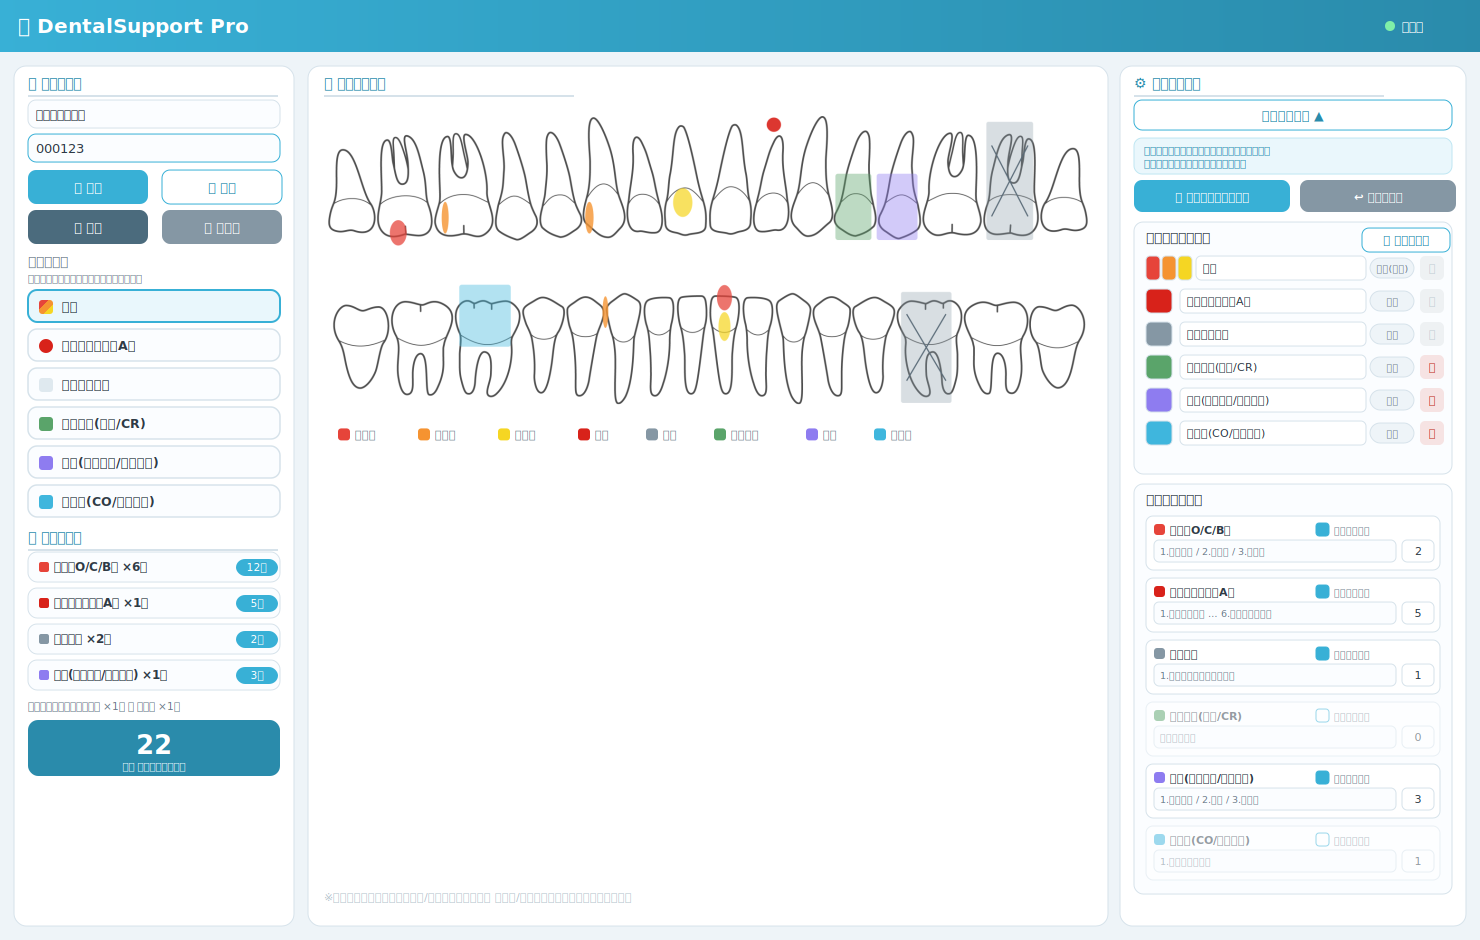
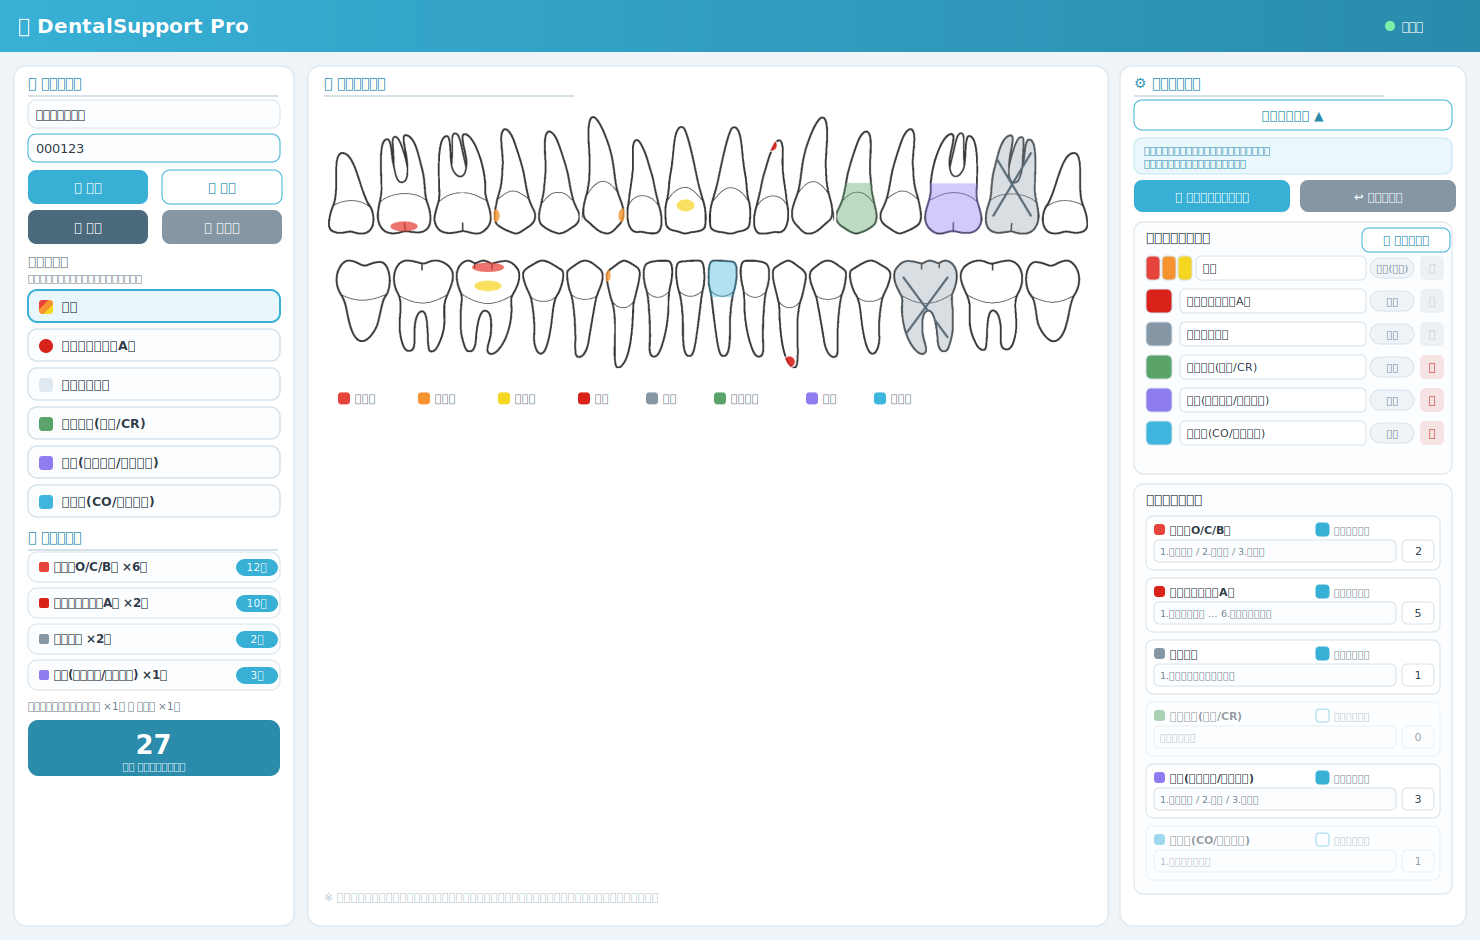
個別の歯画像で歯列を再構成＋色マークを歯シルエットでクリップ
- アップロードされた32本の個別歯PNGから tooth-chart.png を合成
- 白シルエットの tooth-mask.png を生成し、SVGマスクで色マークを各歯にクリップ
  → 色が歯の輪郭からはみ出さない
- 各歯の座標を TEETH_GEOM(個別)に刷新。歯ごとに咬合面/隣接面/頬側面/根尖を配置
- overlay viewBox を 2105x699 に。マーク群を <g mask> で囲みクリップ
- 再生成用に tools/compose.py と元画像 tools/teeth_src/ を同梱
- プレビュー/READMEを更新

diff --git a/index.html b/index.html
@@ -62,7 +62,7 @@
   /* ===== 歯列チャート（画像＋SVGオーバーレイ） ===== */
   .chart-wrap { position: relative; width: 100%; max-width: 900px; margin: 0 auto; }
   #chartImg { display: block; width: 100%; height: auto; border-radius: 8px; }
-  #chartImg.placeholder { background: repeating-linear-gradient(45deg,#f3f7fa,#f3f7fa 10px,#fff 10px,#fff 20px); border: 1px dashed #c4d2dc; aspect-ratio: 2.5 / 1; }
+  #chartImg.placeholder { background: repeating-linear-gradient(45deg,#f3f7fa,#f3f7fa 10px,#fff 10px,#fff 20px); border: 1px dashed #c4d2dc; aspect-ratio: 3 / 1; }
   #overlay { position: absolute; inset: 0; width: 100%; height: 100%; }
   .hit { fill: transparent; cursor: pointer; }
   .hit:hover { fill: rgba(56,176,214,.14); }
@@ -203,7 +203,7 @@
 
     <div class="chart-wrap">
       <img id="chartImg" alt="歯列表" />
-      <svg id="overlay" viewBox="0 0 1000 380" preserveAspectRatio="none"></svg>
+      <svg id="overlay" viewBox="0 0 2105 699" preserveAspectRatio="none"></svg>
     </div>
 
     <div class="legend" id="legend"></div>
@@ -282,72 +282,73 @@ const catColor   = cat => { const m=modes.find(x=>x.cat===cat); if(!m) return "#
 const escAttr    = s => String(s).replace(/"/g,"&quot;").replace(/</g,"&lt;");
 function escapeHtml(s){ return String(s).replace(/[&<>"']/g,c=>({"&":"&amp;","<":"&lt;",">":"&gt;",'"':"&quot;","'":"&#39;"}[c])); }
 
-const VBW = 1000, VBH = 380; // overlay viewBox（同梱 tooth-chart.png のアスペクト 3046:1156 に一致）
-const TOOTH_CX = {
-  U: [0.0341,0.0923,0.1307,0.1806,0.2485,0.3119,0.3903,0.4668,0.5286,0.5867,0.6369,0.6914,0.7489,0.8185,0.8972,0.9672],
-  L: [0.0420,0.1198,0.2065,0.2800,0.3355,0.3874,0.4350,0.4790,0.5217,0.5653,0.6120,0.6619,0.7150,0.7873,0.8756,0.9576]
-};
-const GEOF = {
-  U: { apex:0.030, buc:0.300, occ:0.405, ht:0.020, hb:0.430, ctop:0.200, cbot:0.430 },
-  L: { apex:0.985, buc:0.730, occ:0.630, ht:0.610, hb:0.995, ctop:0.585, cbot:0.800 }
-};
-function halfWFrac(arr, i) {
-  const d = i === 0 ? arr[1]-arr[0] : i === arr.length-1 ? arr[i]-arr[i-1] : (arr[i+1]-arr[i-1])/2;
-  return d * 0.46;
-}
-function allToothIds() {
-  const ids = [];
-  ["U","L"].forEach(arch => TOOTH_CX[arch].forEach((_,i)=> ids.push(arch+(i+1))));
-  return ids;
+const VBW = 2105, VBH = 699; // overlay viewBox（同梱 tooth-chart.png と同寸）
+/* 個別の歯画像から合成した各歯の座標（px）。cx/w=中心・幅、top/bot=歯の上下端。
+   別の歯列画像に差し替える場合は compose.py で再生成してください。 */
+const TEETH_GEOM = [
+  {id:"U1",a:"U",cx:64.5,w:129.0,top:100.0,bot:328.0},{id:"U2",a:"U",cx:210.5,w:151.0,top:50.0,bot:328.0},{id:"U3",a:"U",cx:372.5,w:161.0,top:46.0,bot:328.0},{id:"U4",a:"U",cx:517.5,w:117.0,top:34.0,bot:328.0},
+  {id:"U5",a:"U",cx:639.5,w:115.0,top:40.0,bot:328.0},{id:"U6",a:"U",cx:762.0,w:118.0,top:0.0,bot:328.0},{id:"U7",a:"U",cx:876.5,w:99.0,top:64.0,bot:328.0},{id:"U8",a:"U",cx:990.5,w:117.0,top:28.0,bot:328.0},
+  {id:"U9",a:"U",cx:1113.5,w:117.0,top:29.0,bot:328.0},{id:"U10",a:"U",cx:1227.5,w:99.0,top:65.0,bot:328.0},{id:"U11",a:"U",cx:1342.5,w:119.0,top:2.0,bot:328.0},{id:"U12",a:"U",cx:1465.0,w:114.0,top:40.0,bot:328.0},
+  {id:"U13",a:"U",cx:1586.5,w:117.0,top:34.0,bot:328.0},{id:"U14",a:"U",cx:1732.0,w:162.0,top:45.0,bot:328.0},{id:"U15",a:"U",cx:1895.0,w:152.0,top:51.0,bot:328.0},{id:"U16",a:"U",cx:2041.0,w:128.0,top:100.0,bot:328.0},
+  {id:"L1",a:"L",cx:97.5,w:153.0,top:398.0,bot:627.0},{id:"L2",a:"L",cx:264.0,w:168.0,top:398.0,bot:655.0},{id:"L3",a:"L",cx:443.0,w:178.0,top:398.0,bot:662.0},{id:"L4",a:"L",cx:596.0,w:116.0,top:398.0,bot:661.0},
+  {id:"L5",a:"L",cx:711.5,w:103.0,top:398.0,bot:670.0},{id:"L6",a:"L",cx:817.5,w:97.0,top:398.0,bot:699.0},{id:"L7",a:"L",cx:914.0,w:84.0,top:398.0,bot:669.0},{id:"L8",a:"L",cx:1003.5,w:83.0,top:398.0,bot:667.0},
+  {id:"L9",a:"L",cx:1092.5,w:83.0,top:398.0,bot:667.0},{id:"L10",a:"L",cx:1182.0,w:84.0,top:398.0,bot:669.0},{id:"L11",a:"L",cx:1278.0,w:96.0,top:398.0,bot:699.0},{id:"L12",a:"L",cx:1384.5,w:105.0,top:398.0,bot:670.0},
+  {id:"L13",a:"L",cx:1501.5,w:117.0,top:398.0,bot:661.0},{id:"L14",a:"L",cx:1655.0,w:178.0,top:398.0,bot:662.0},{id:"L15",a:"L",cx:1837.5,w:175.0,top:398.0,bot:650.0},{id:"L16",a:"L",cx:2007.5,w:153.0,top:398.0,bot:627.0}
+];
+const geomById = {}; TEETH_GEOM.forEach(t => geomById[t.id] = t);
+
+/* 各歯のマーク配置を算出（歯冠は咬合縁側、根尖は反対端） */
+function toothMetrics(t) {
+  const hw = t.w * 0.5, H = t.bot - t.top;
+  const cw = Math.min(t.w * 1.25, H * 0.5); // 歯冠の奥行き
+  if (t.a === "U") { // 上顎：咬合縁=下、根尖=上
+    const occ = t.bot - cw*0.16, buc = t.bot - cw*0.55, apex = t.top + H*0.06;
+    return { hw, H, occ, buc, apex, ctop: t.bot - cw, cbot: t.bot - cw*0.02, ht: t.top, hb: t.bot, bnd:(occ+buc)/2, occLower:true };
+  } else {           // 下顎：咬合縁=上、根尖=下
+    const occ = t.top + cw*0.16, buc = t.top + cw*0.55, apex = t.bot - H*0.06;
+    return { hw, H, occ, buc, apex, ctop: t.top + cw*0.02, cbot: t.top + cw, ht: t.top, hb: t.bot, bnd:(occ+buc)/2, occLower:false };
+  }
 }
 function initToothData() {
   toothData = {};
-  allToothIds().forEach(id => { toothData[id] = { surf:{O:false,Cm:false,Cd:false,B:false}, marks:{}, state:null }; });
+  TEETH_GEOM.forEach(t => { toothData[t.id] = { surf:{O:false,Cm:false,Cd:false,B:false}, marks:{}, state:null }; });
 }
 
-/* ================= オーバーレイ生成 ================= */
+/* ================= オーバーレイ生成（マークは歯シルエットでクリップ） ================= */
 function buildOverlay() {
   const ov = document.getElementById("overlay");
   const cm  = surfaceMode();
   const apx = apexModes()[0];
-  let svg = "";
-  ["U","L"].forEach(arch => {
-    const g = GEOF[arch];
-    const cxs = TOOTH_CX[arch];
-    for (let i = 0; i < cxs.length; i++) {
-      const id = arch + (i + 1);
-      const x  = cxs[i] * VBW;
-      const hw = halfWFrac(cxs, i) * VBW;
-      const occY = g.occ*VBH, bucY = g.buc*VBH, apexY = g.apex*VBH;
-      const hT = g.ht*VBH, hH = (g.hb-g.ht)*VBH;
-      const cT = g.ctop*VBH, cH = (g.cbot-g.ctop)*VBH;
-      const bnd = ((g.occ+g.buc)/2)*VBH;       // 中央ゾーンの咬合/頬側 境界
-      const occLower = g.occ > g.buc;          // 上顎は咬合面が下側
-      // 歯全体着色（描画時に色設定）
-      svg += `<rect class="mk whole" data-id="${id}" x="${x-hw*0.92}" y="${cT}" width="${hw*1.84}" height="${cH}" rx="7"/>`;
-      // 部位マーク（う蝕）：部位ごとに丸い色マーク。色は cm.colors
-      if (cm) {
-        svg += `<ellipse class="mk surf" data-id="${id}" data-surface="O" style="fill:${cm.colors.occlusal};opacity:.74" cx="${x}" cy="${occY}" rx="${hw*0.5}" ry="${VBH*0.044}"/>`;
-        svg += `<ellipse class="mk surf" data-id="${id}" data-surface="B" style="fill:${cm.colors.buccal};opacity:.72" cx="${x}" cy="${bucY}" rx="${hw*0.4}" ry="${VBH*0.05}"/>`;
-        svg += `<ellipse class="mk surf" data-id="${id}" data-surface="Cm" style="fill:${cm.colors.adjacent};opacity:.8" cx="${x-hw*0.98}" cy="${bnd}" rx="${hw*0.17}" ry="${VBH*0.055}"/>`;
-        svg += `<ellipse class="mk surf" data-id="${id}" data-surface="Cd" style="fill:${cm.colors.adjacent};opacity:.8" cx="${x+hw*0.98}" cy="${bnd}" rx="${hw*0.17}" ry="${VBH*0.055}"/>`;
-      }
-      // 根尖マーク
-      if (apx) svg += `<g class="mk part" data-id="${id}" data-mode="${apx.id}" style="fill:${apx.color}"><circle cx="${x}" cy="${apexY}" r="${VBH*0.026}" stroke="#fff" stroke-width="2"/></g>`;
-      // 欠損
-      svg += `<rect class="mk xbox" data-id="${id}" x="${x-hw*0.9}" y="${hT}" width="${hw*1.8}" height="${hH}" rx="6"/>`;
-      svg += `<line class="mk xline" data-id="${id}" x1="${x-hw*0.7}" y1="${hT+hH*0.2}" x2="${x+hw*0.7}" y2="${hT+hH*0.8}"/>`;
-      svg += `<line class="mk xline" data-id="${id}" x1="${x+hw*0.7}" y1="${hT+hH*0.2}" x2="${x-hw*0.7}" y2="${hT+hH*0.8}"/>`;
-      // クリックゾーン（部位指定用）：近心(左)・遠心(右)・中央=咬合/頬側
-      const occTop = occLower ? bnd : hT, occH = occLower ? (hT+hH-bnd) : (bnd-hT);
-      const bucTop = occLower ? hT : bnd, bucH = occLower ? (bnd-hT) : (hT+hH-bnd);
-      svg += `<rect class="hit" data-id="${id}" data-surface="Cm" x="${x-hw}" y="${hT}" width="${hw*0.56}" height="${hH}"/>`;
-      svg += `<rect class="hit" data-id="${id}" data-surface="Cd" x="${x+hw*0.44}" y="${hT}" width="${hw*0.56}" height="${hH}"/>`;
-      svg += `<rect class="hit" data-id="${id}" data-surface="O" x="${x-hw*0.44}" y="${occTop}" width="${hw*0.88}" height="${occH}"/>`;
-      svg += `<rect class="hit" data-id="${id}" data-surface="B" x="${x-hw*0.44}" y="${bucTop}" width="${hw*0.88}" height="${bucH}"/>`;
+  let marks = "", hits = "";
+  TEETH_GEOM.forEach(t => {
+    const id = t.id, x = t.cx, m = toothMetrics(t), hw = m.hw;
+    const hT = m.ht, hH = m.hb - m.ht;
+    // 歯全体着色
+    marks += `<rect class="mk whole" data-id="${id}" x="${x-hw*0.96}" y="${m.ctop}" width="${hw*1.92}" height="${m.cbot-m.ctop}" rx="8"/>`;
+    // 部位マーク（う蝕）
+    if (cm) {
+      marks += `<ellipse class="mk surf" data-id="${id}" data-surface="O"  style="fill:${cm.colors.occlusal};opacity:.74" cx="${x}" cy="${m.occ}" rx="${hw*0.5}" ry="${m.H*0.05}"/>`;
+      marks += `<ellipse class="mk surf" data-id="${id}" data-surface="B"  style="fill:${cm.colors.buccal};opacity:.72" cx="${x}" cy="${m.buc}" rx="${hw*0.42}" ry="${m.H*0.055}"/>`;
+      marks += `<ellipse class="mk surf" data-id="${id}" data-surface="Cm" style="fill:${cm.colors.adjacent};opacity:.82" cx="${x-hw*0.92}" cy="${m.bnd}" rx="${hw*0.2}" ry="${m.H*0.06}"/>`;
+      marks += `<ellipse class="mk surf" data-id="${id}" data-surface="Cd" style="fill:${cm.colors.adjacent};opacity:.82" cx="${x+hw*0.92}" cy="${m.bnd}" rx="${hw*0.2}" ry="${m.H*0.06}"/>`;
     }
+    if (apx) marks += `<g class="mk part" data-id="${id}" data-mode="${apx.id}" style="fill:${apx.color}"><circle cx="${x}" cy="${m.apex}" r="${hw*0.34}" stroke="#fff" stroke-width="3"/></g>`;
+    // 欠損
+    marks += `<rect class="mk xbox" data-id="${id}" x="${x-hw*0.96}" y="${hT}" width="${hw*1.92}" height="${hH}" rx="6"/>`;
+    marks += `<line class="mk xline" data-id="${id}" x1="${x-hw*0.7}" y1="${hT+hH*0.18}" x2="${x+hw*0.7}" y2="${hT+hH*0.82}"/>`;
+    marks += `<line class="mk xline" data-id="${id}" x1="${x+hw*0.7}" y1="${hT+hH*0.18}" x2="${x-hw*0.7}" y2="${hT+hH*0.82}"/>`;
+    // クリックゾーン（部位指定）
+    const occTop = m.occLower ? m.bnd : hT, occH = m.occLower ? (m.hb-m.bnd) : (m.bnd-hT);
+    const bucTop = m.occLower ? hT : m.bnd, bucH = m.occLower ? (m.bnd-hT) : (m.hb-m.bnd);
+    hits += `<rect class="hit" data-id="${id}" data-surface="Cm" x="${x-hw}" y="${hT}" width="${hw*0.5}" height="${hH}"/>`;
+    hits += `<rect class="hit" data-id="${id}" data-surface="Cd" x="${x+hw*0.5}" y="${hT}" width="${hw*0.5}" height="${hH}"/>`;
+    hits += `<rect class="hit" data-id="${id}" data-surface="O"  x="${x-hw*0.5}" y="${occTop}" width="${hw}" height="${occH}"/>`;
+    hits += `<rect class="hit" data-id="${id}" data-surface="B"  x="${x-hw*0.5}" y="${bucTop}" width="${hw}" height="${bucH}"/>`;
   });
-  ov.innerHTML = svg;
+  ov.innerHTML =
+    `<defs><mask id="toothmask" maskUnits="userSpaceOnUse" x="0" y="0" width="${VBW}" height="${VBH}">`
+    + `<image href="tooth-mask.png" x="0" y="0" width="${VBW}" height="${VBH}" preserveAspectRatio="none"/></mask></defs>`
+    + `<g mask="url(#toothmask)">${marks}</g>${hits}`;
   ov.querySelectorAll(".hit").forEach(el => el.addEventListener("click", () => onToothClick(el.dataset.id, el.dataset.surface)));
 }
 

diff --git a/tools/compose.py b/tools/compose.py
@@ -1,0 +1,73 @@
+#!/usr/bin/env python3
+"""個別の歯PNG(32本: tools/teeth_src/tooth_outline_01..32.png)から
+歯列チャート(tooth-chart.png)とシルエットマスク(tooth-mask.png)を合成し、
+各歯の座標(TEETH_GEOM)を index.html 用に出力する。
+
+  python3 tools/compose.py
+依存: pillow numpy （pip install pillow numpy）
+"""
+from PIL import Image
+import numpy as np, os
+from collections import deque
+
+HERE = os.path.dirname(os.path.abspath(__file__))
+SRC  = os.path.join(HERE, "teeth_src")
+OUT  = os.path.join(HERE, "..")
+
+def load_trim(n):
+    im = Image.open(os.path.join(SRC, f"tooth_outline_{n:02d}.png")).convert("RGBA")
+    a = np.array(im); alpha = a[:,:,3] > 40
+    ys, xs = np.where(alpha)
+    return im.crop((xs.min(), ys.min(), xs.max()+1, ys.max()+1)) if len(xs) else im
+
+def silhouette(im):
+    """outlineを壁に外側をflood、内側=塗りつぶし（白シルエット bool）。"""
+    a = np.array(im); H, W = a.shape[:2]; pad = 2
+    ink = np.zeros((H+2*pad, W+2*pad), bool); ink[pad:pad+H, pad:pad+W] = a[:,:,3] > 60
+    bg = np.zeros_like(ink); dq = deque([(0,0)]); bg[0,0] = True
+    HH, WW = ink.shape
+    while dq:
+        y, x = dq.popleft()
+        for dy, dx in ((1,0),(-1,0),(0,1),(0,-1)):
+            ny, nx = y+dy, x+dx
+            if 0 <= ny < HH and 0 <= nx < WW and not bg[ny,nx] and not ink[ny,nx]:
+                bg[ny,nx] = True; dq.append((ny,nx))
+    return (~bg)[pad:pad+H, pad:pad+W]
+
+UPPER, LOWER = list(range(1,17)), list(range(17,33))
+GAP, ARCH_GAP = 6, 70
+
+def prep(nums, root_up):
+    out = []
+    for n in nums:
+        im = load_trim(n); sil = silhouette(im); wp = sil.sum(axis=1); h = len(wp)
+        if (wp[:h//4].mean() < wp[3*h//4:].mean()) != root_up:
+            im = im.transpose(Image.FLIP_TOP_BOTTOM); sil = silhouette(im)
+        out.append((im, sil))
+    return out
+
+up = prep(UPPER, True); lo = prep(LOWER, False)
+up_maxh = max(im.size[1] for im,_ in up); lo_maxh = max(im.size[1] for im,_ in lo)
+W = max(sum(im.size[0] for im,_ in up)+GAP*15, sum(im.size[0] for im,_ in lo)+GAP*15)
+H = up_maxh + ARCH_GAP + lo_maxh
+chart = Image.new("RGBA",(W,H),(0,0,0,0)); mask = Image.new("RGBA",(W,H),(0,0,0,0)); geom = []
+
+def place(items, arch, mode, y_ref):
+    x = (W - (sum(im.size[0] for im,_ in items)+GAP*(len(items)-1)))//2
+    for k,(im,sil) in enumerate(items):
+        w,h = im.size
+        top, bot = (y_ref-h, y_ref) if mode=="bottom" else (y_ref, y_ref+h)
+        si = np.zeros((h,w,4),np.uint8); si[sil] = (255,255,255,255); si = Image.fromarray(si,"RGBA")
+        mask.alpha_composite(si,(x,top)); chart.alpha_composite(si,(x,top)); chart.alpha_composite(im,(x,top))
+        geom.append({"a":arch,"i":k+1,"cx":(x+w/2)/W,"top":top/H,"bot":bot/H,"w":w/W})
+        x += w + GAP
+
+place(up,"U","bottom", up_maxh); place(lo,"L","top", up_maxh+ARCH_GAP)
+bg = Image.new("RGBA",(W,H),(255,255,255,255)); bg.alpha_composite(chart)
+bg.convert("RGB").save(os.path.join(OUT,"tooth-chart.png"))
+mask.save(os.path.join(OUT,"tooth-mask.png"))
+
+# index.html の TEETH_GEOM 用配列を出力
+rows = [f'{{id:"{g["a"]}{g["i"]}",a:"{g["a"]}",cx:{g["cx"]*W:.1f},w:{g["w"]*W:.1f},top:{g["top"]*H:.1f},bot:{g["bot"]*H:.1f}}}' for g in geom]
+print(f"// VBW={W}, VBH={H}")
+print("const TEETH_GEOM = [\n" + "\n".join("  "+",".join(rows[i:i+4])+("," if i+4 < len(rows) else "") for i in range(0,len(rows),4)) + "\n];")

diff --git a/README.md b/README.md
@@ -32,13 +32,14 @@
   - 医院共通設定（`/api/settings`）にモード・工程設定・医院名を保存。
 - **歯列イラストは画像（`tooth-chart.png`）を使用**。リアルな歯の画像の上に半透明の色マークを重ねて表示します。
 - **印刷ボタン**で、医院名・患者番号・作成日・歯列図・治療計画・目安回数をまとめた **患者用「治療計画 説明書」** をA4で印刷できます。
+- **色マークは歯のシルエットでクリップ**され、歯の輪郭からはみ出しません（`tooth-mask.png` をSVGマスクとして使用）。
 
 ## 歯列画像について
 
-- 歯列イラストは同梱の `tooth-chart.png`（`index.html` と同じフォルダ）を読み込んで表示します。
-- マークの位置は、この `tooth-chart.png` を**画像解析して検出した各歯の中心位置**に合わせて精密に較正済みです
-  （`index.html` 内の `TOOTH_CX`：各歯中心の横位置、`GEOF`：根尖/咬合面などの縦位置）。
-- 歯列画像を別のものに差し替える場合は、`tooth-chart.png` を置き換えたうえで `TOOTH_CX` / `GEOF` の値を調整してください。
+- 歯列イラストは**32本の個別の歯画像を合成した** `tooth-chart.png` を表示します（`index.html` と同じフォルダ）。
+- 同時に `tooth-mask.png`（白い歯シルエット）を**SVGマスク**として使い、色マークを各歯の内側にクリップします。
+- 各歯の座標（中心・幅・上下端）は `index.html` の `TEETH_GEOM` 配列に格納されています。
+- 歯列画像を別の個別歯セットに差し替える場合は、同梱の `compose.py` で `tooth-chart.png` / `tooth-mask.png` / `TEETH_GEOM` を再生成してください。
 
 ## 印刷（患者用説明書）
 
